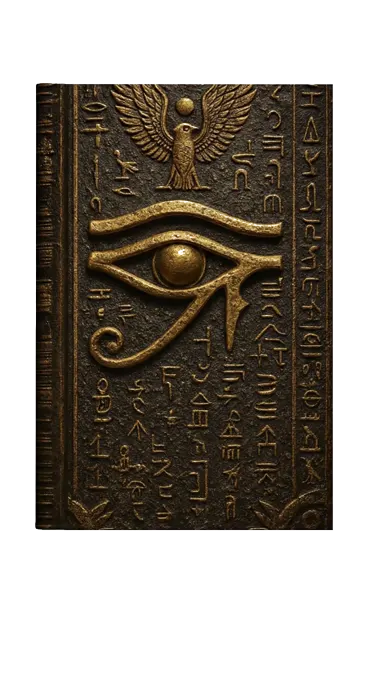
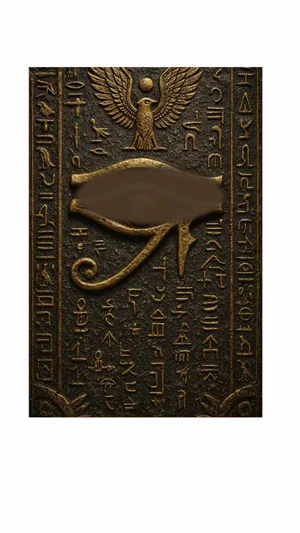
Real eye-blink: base book without iris + SVG iris that scales Y on scroll

diff --git a/src/components/ui/BookScrubber.tsx b/src/components/ui/BookScrubber.tsx
@@ -1,26 +1,21 @@
 "use client";
 
 import { useEffect, useRef, useState } from "react";
-import { useScroll } from "framer-motion";
-
-const FRAMES = [
-  "/images/book-keyframes/frame-1.webp", // closed
-  "/images/book-keyframes/frame-2.webp", // mid
-  "/images/book-keyframes/frame-3.webp", // open
-];
+import { motion, useScroll, useTransform } from "framer-motion";
 
 /**
- * Three-keyframe book animation tied to scroll.
+ * Book + animated eye iris.
+ *
+ * The base image has the iris (gold ball) painted over with surrounding
+ * stone color. We overlay a real golden iris on top that scales Y based
+ * on scroll progress, simulating the eye opening/closing.
+ *
+ * Iris position (% of image size): cx 50%, cy 35.83%, r 8.33% of image width.
  *
  * Mapping with t = 1 - |progress - 0.5| * 2:
- *  - progress 0   (entering)  → t=0   → frame 1 (closed)
- *  - progress 0.25            → t=0.5 → frame 2 (mid)
- *  - progress 0.5  (centered) → t=1   → frame 3 (open)
- *  - progress 0.75            → t=0.5 → frame 2 (mid)
- *  - progress 1   (leaving)   → t=0   → frame 1 (closed)
- *
- * Result: book opens as you scroll into the section, closes as you scroll past.
- * Reverses cleanly when scrolling back up.
+ *  - progress 0   (entering): t=0  → scaleY=0  → eye CLOSED
+ *  - progress 0.5 (centered): t=1  → scaleY=1  → eye OPEN
+ *  - progress 1   (leaving):  t=0  → scaleY=0  → eye CLOSED
  */
 export default function BookScrubber({
   targetRef,
@@ -31,63 +26,75 @@ export default function BookScrubber({
   className?: string;
   style?: React.CSSProperties;
 }) {
-  const lastIndex = useRef(-1);
-  const [index, setIndex] = useState(0);
-  const [loaded, setLoaded] = useState(false);
-
   const { scrollYProgress } = useScroll({
     target: targetRef,
     offset: ["start end", "end start"],
   });
 
-  // Preload all 3 frames
-  useEffect(() => {
-    let cancelled = false;
-    let count = 0;
-    FRAMES.forEach((src) => {
-      const img = new Image();
-      img.onload = img.onerror = () => {
-        count += 1;
-        if (count === FRAMES.length && !cancelled) setLoaded(true);
-      };
-      img.src = src;
-    });
-    return () => {
-      cancelled = true;
-    };
-  }, []);
+  // t goes 0 → 1 → 0 across the section
+  const t = useTransform(scrollYProgress, (p) =>
+    Math.max(0, 1 - Math.abs(p - 0.5) * 2)
+  );
 
-  // Drive the active frame from scroll progress
-  useEffect(() => {
-    if (!loaded) return;
-    let raf = 0;
-    const tick = () => {
-      const p = scrollYProgress.get();
-      const t = Math.max(0, 1 - Math.abs(p - 0.5) * 2);
-      const idx = Math.min(2, Math.max(0, Math.round(t * 2)));
-      if (idx !== lastIndex.current) {
-        lastIndex.current = idx;
-        setIndex(idx);
-      }
-      raf = requestAnimationFrame(tick);
-    };
-    raf = requestAnimationFrame(tick);
-    return () => cancelAnimationFrame(raf);
-  }, [loaded, scrollYProgress]);
+  // Eye opens vertically (scaleY) and slightly horizontally for natural feel
+  const irisScaleY = t;
+  const irisScaleX = useTransform(t, (v) => 0.85 + v * 0.15);
+  // Iris drops slightly when closing, rises when opening — adds organic bob
+  const irisDy = useTransform(t, (v) => `${(1 - v) * 4}%`);
 
   return (
     <div className={`relative h-full w-full ${className}`} style={style}>
-      {FRAMES.map((src, i) => (
-        // eslint-disable-next-line @next/next/no-img-element
-        <img
-          key={src}
-          src={src}
-          alt=""
-          aria-hidden={i !== index}
-          className="absolute inset-0 h-full w-full object-contain transition-opacity duration-300 ease-out"
-          style={{ opacity: index === i ? 1 : 0 }}
+      {/* Base book image with iris erased */}
+      {/* eslint-disable-next-line @next/next/no-img-element */}
+      <img
+        src="/images/book-keyframes/book-base.webp"
+        alt="Eye of Horus carved book"
+        className="absolute inset-0 h-full w-full object-contain"
+      />
+
+      {/* Animated iris layer — positioned over where the iris was */}
+      <svg
+        viewBox="0 0 100 100"
+        preserveAspectRatio="xMidYMid meet"
+        className="absolute inset-0 h-full w-full pointer-events-none"
+        aria-hidden
+      >
+        <defs>
+          <radialGradient id="irisGold" cx="50%" cy="50%" r="50%">
+            <stop offset="0%" stopColor="#f5d999" />
+            <stop offset="55%" stopColor="#c9a96b" />
+            <stop offset="100%" stopColor="#7a5a26" />
+          </radialGradient>
+          <radialGradient id="irisGlow" cx="50%" cy="50%" r="50%">
+            <stop offset="0%" stopColor="rgba(255,210,140,0.65)" />
+            <stop offset="100%" stopColor="rgba(255,210,140,0)" />
+          </radialGradient>
+        </defs>
+
+        {/* Soft glow that breathes with the iris */}
+        <motion.circle
+          cx="50"
+          cy="35.83"
+          r="11"
+          fill="url(#irisGlow)"
+          style={{ scaleY: irisScaleY, originY: 0.36, originX: 0.5 } as any}
         />
-      ))}
+
+        {/* The iris itself — a gold ball that scales Y to mimic eyelid */}
+        <motion.g
+          style={{
+            scaleY: irisScaleY,
+            scaleX: irisScaleX,
+            translateY: irisDy,
+            originX: "50%",
+            originY: "35.83%",
+          } as any}
+        >
+          <circle cx="50" cy="35.83" r="4.5" fill="url(#irisGold)" />
+          {/* Inner highlight on iris */}
+          <circle cx="48.8" cy="34.6" r="1.4" fill="#fff8e7" opacity="0.55" />
+        </motion.g>
+      </svg>
     </div>
   );
 }